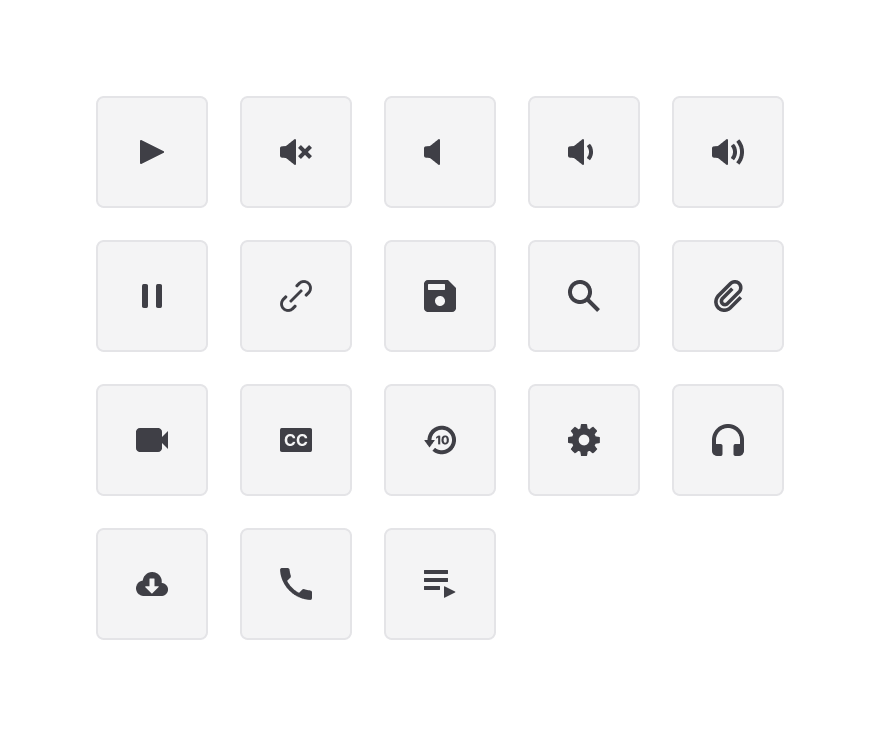
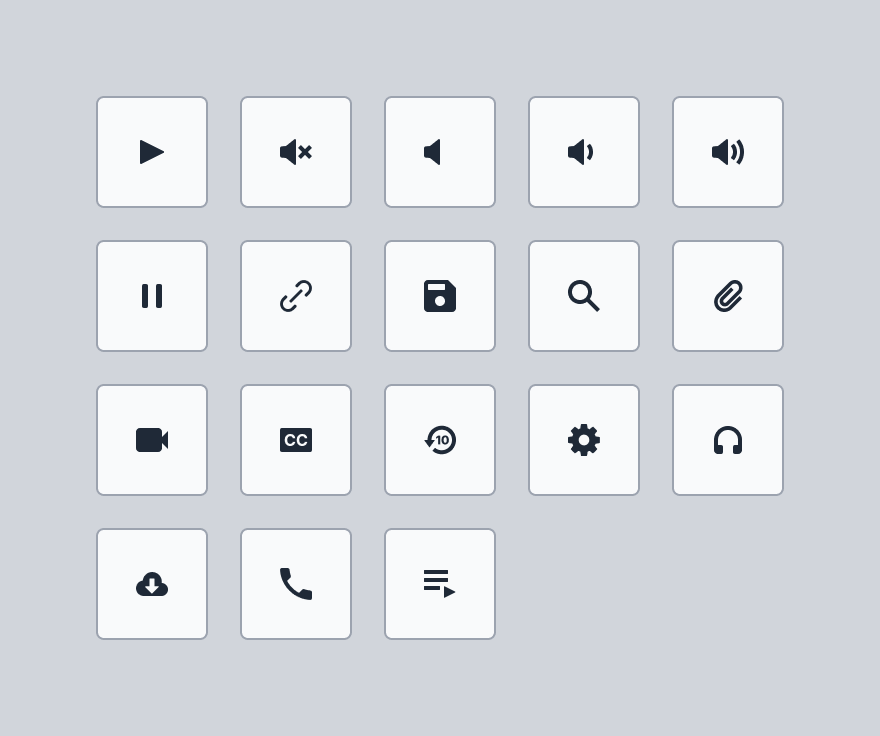
Add dark mode image swapping

diff --git a/components/PostImage.js b/components/PostImage.js
@@ -3,15 +3,47 @@ import Image from "next/image";
 import Zoom from "react-medium-image-zoom";
 import "react-medium-image-zoom/dist/styles.css";
 
-const PostImage = ({ alt, className, caption, src, width, height }) => {
+const PostImage = ({
+  alt,
+  className,
+  caption,
+  src,
+  width,
+  height,
+  darkMode,
+  darkSrc,
+}) => {
   const img = (
     <>
-      <Image alt={alt} height={height} src={src} width={width} />
+      <Image
+        alt={alt}
+        height={height}
+        src={darkMode ? darkSrc : src}
+        width={width}
+      />
     </>
   );
 
+  if (darkMode) {
+    return (
+      <figure className="mx-0 md:-mx-8 dark-mode-image">
+        <Zoom
+          overlayBgColorStart="rgba(6, 6, 6, 0)"
+          overlayBgColorEnd="rgba(6, 6, 6, 0.95)"
+        >
+          {img}
+        </Zoom>
+        {caption && (
+          <figcaption className="mx-0 mt-1 text-base leading-loose text-gray-500 md:mx-8 dark:text-gray-300">
+            {caption}
+          </figcaption>
+        )}
+      </figure>
+    );
+  }
+
   return (
-    <figure className="mx-0 md:-mx-8">
+    <figure className="mx-0 md:-mx-8 light-mode-image">
       <Zoom>{img}</Zoom>
       {caption && (
         <figcaption className="mx-0 mt-1 text-base leading-loose text-gray-500 md:mx-8 dark:text-gray-300">

diff --git a/pages/bookshelf/[slug].js b/pages/bookshelf/[slug].js
@@ -39,7 +39,7 @@ const Book = ({ source, frontMatter }) => {
 
       <div className="flex flex-col mx-0 overflow-hidden border border-gray-300 rounded-md sm:flex-row md:-mx-12 dark:bg-gray-900 dark:border-gray-700">
         <div className="flex items-center justify-center w-full py-8 bg-gray-100 sm:w-1/3 sm:py-0 dark:bg-gray-800">
-          <div className="w-32 overflow-hidden border border-gray-200 rounded book-image">
+          <div className="w-32 overflow-hidden border border-gray-200 rounded shadow-md book-image">
             <img
               className="my-0"
               src={frontMatter.cover}

diff --git a/styles/global.css b/styles/global.css
@@ -35,6 +35,14 @@
         [aria-current="page"] {
             @apply text-gray-100 bg-gray-800;
         }
+        .light-mode-image {
+            display: none;
+        }
+    }
+    @media (prefers-color-scheme: light) {
+        .dark-mode-image {
+            display: none;
+        }
     }
     p.large {
         @apply mb-4 text-xl leading-loose sm:text-xl sm:mb-6;
